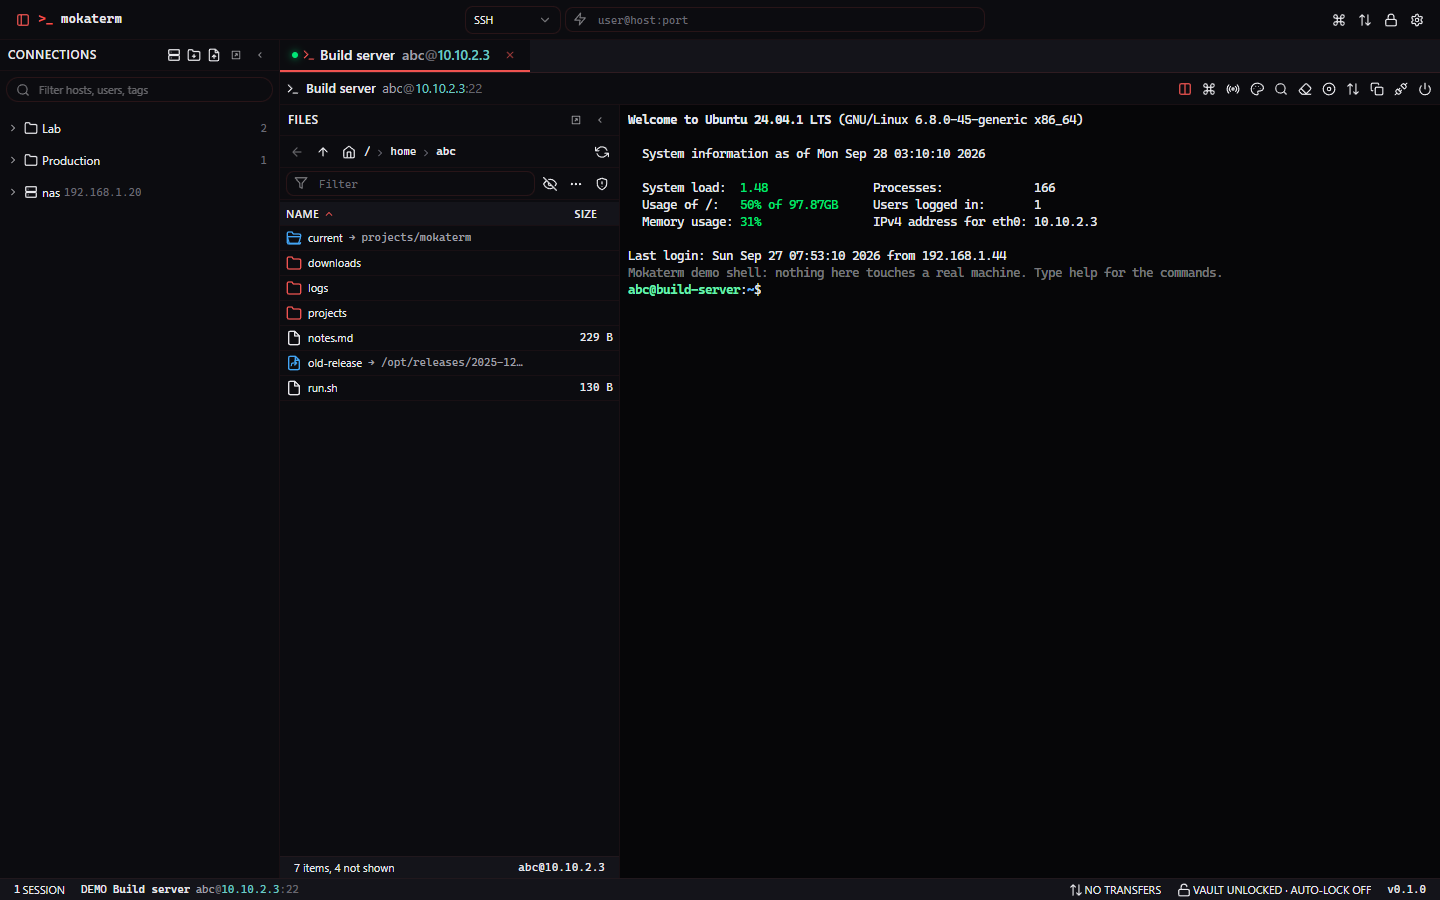
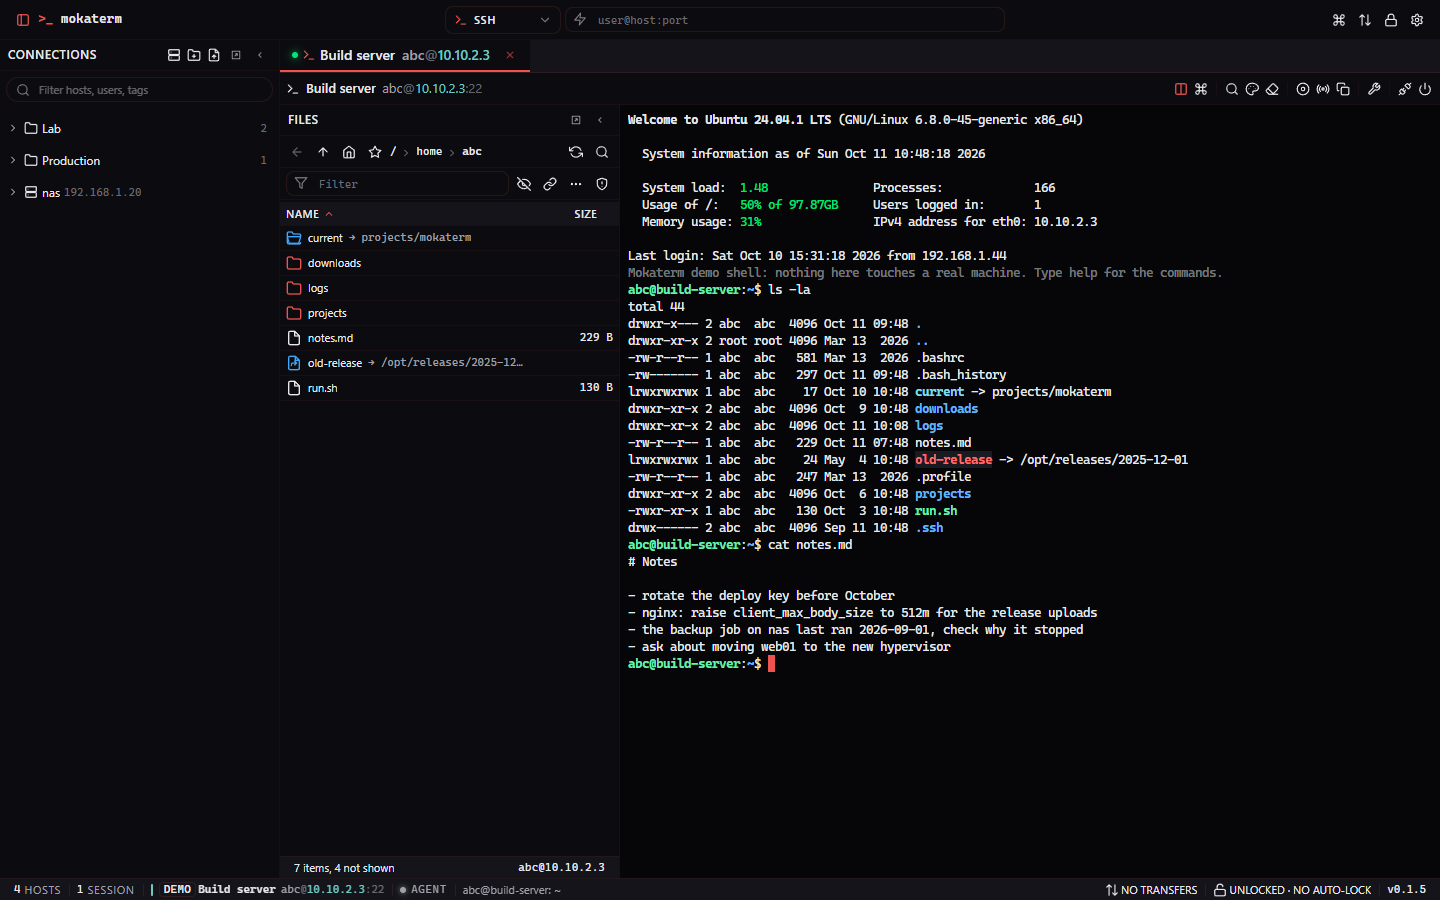
Bump to 0.1.5
Refresh the README and its screenshots for the new tools, and add what's new to the release notes.

diff --git a/README.md b/README.md
@@ -2,9 +2,9 @@
 
 [![CI](https://github.com/jacobwi/Mokaterm/actions/workflows/ci.yml/badge.svg)](https://github.com/jacobwi/Mokaterm/actions/workflows/ci.yml)
 
-A modular SSH, SFTP, FTP, VNC, RDP, telnet, serial and MQTT client, written in Blazor on .NET 10.
-One shared UI runs on two hosts: a MAUI desktop app for Windows, and a Blazor Server web app where
-the server makes the connections instead of the browser.
+A modular SSH, SFTP, FTP, VNC, RDP, telnet, serial and MQTT client, written in Blazor on .NET 10, with a Linux
+system manager and a Docker manager built into every SSH session. One shared UI runs on two hosts: a MAUI desktop app
+for Windows, and a Blazor Server web app where the server makes the connections instead of the browser.
 
 ![Terminal session with the remote file browser](docs/images/terminal.png)
 
@@ -12,7 +12,7 @@ the server makes the connections instead of the browser.
 
 | Protocol | Terminal | Files | Notes |
 |---|---|---|---|
-| SSH | yes | SFTP | Port forwarding, jump hosts, SSH agent, sudo file operations, HTTP and SOCKS proxies |
+| SSH | yes | SFTP | Port forwarding, jump hosts, agent and X11 forwarding, FIDO2 security keys, sudo file operations, HTTP and SOCKS proxies |
 | SFTP | | yes | The file browser half of an SSH login |
 | FTP / FTPS | | yes | Explicit and implicit TLS, the same proxy kinds as SSH |
 | VNC | | | The RFB handshake and authentication run in .NET; the page only draws |
@@ -20,15 +20,53 @@ the server makes the connections instead of the browser.
 | Telnet | yes | | RFC 1143 option negotiation, written here rather than taken from a package |
 | Serial | yes | | Line settings and control pins over `System.IO.Ports`. Desktop only |
 | MQTT | | | Topic tree, payload viewer and publishing against a broker |
+| Local shell | yes | | PowerShell, cmd, Git Bash and WSL over the Windows pseudo console. Desktop only |
+| Docker / Kubernetes | yes | | `docker exec` and `kubectl exec` with a container or pod picker. Desktop only |
 
-Serial is not offered on the web host on purpose: it would hand the server's own ports to whoever
-opens the page.
+Serial, the local shell and the container shells are not offered on the web host on purpose: they would hand the
+server's own ports and programs to whoever opens the page.
 
-## Screenshots
+## Tools in an SSH session
 
-Tabs split across two panes, each with its own file browser:
+**System** is a Linux manager in the spirit of Cockpit. It finds out what the server runs (distribution, init system,
+package manager, firewall) and uses the right commands for it: services, packages, cron, time zone, hostname, network
+interfaces, users, disks, processes, logs and the firewall. Every change shows the exact commands before it runs and goes
+through sudo with the password on stdin.
+
+![The system view on the services page](docs/images/system.png)
+
+**Docker** manages the engine on the server over the same connection, with nothing to install there: containers with
+logs, inspect, stats and a shell, Compose projects, images, volumes and networks. It tells `docker compose` from
+`docker-compose`, finds compose files and their `.env` files, and shows secrets masked until you reveal them.
+
+![Containers grouped by Compose project, with a container's logs](docs/images/docker.png)
+
+A Compose project in one view, with every service's logs merged:
+
+![A Compose project with its merged logs](docs/images/docker-compose.png)
+
+On the desktop each tool can open in a window of its own, next to the terminal it belongs to.
+
+## Files
+
+- Transfers are checked against a SHA-256 the server computes, and a broken one picks up where it stopped.
+- Search a folder tree by name, size and date, or compare a remote folder with a local one.
+- Edit a remote file with syntax highlighting, and see a diff before saving over a copy that changed meanwhile.
+- Copy, cut and paste on the server, compress and extract archives, keep bookmarks per login, and let the browser
+  follow the terminal's working directory.
+
+## Terminal and sessions
+
+- Up to four panes, in any split you like.
+- Triggers color what matches a pattern and can raise a notice.
+- Session logs as plain text, raw bytes or timed recordings that play back in the app, or in asciinema.
+- Type into several sessions at once, or run one command on many logins and collect the output per host.
+
+Two sessions side by side, each with its own file browser:
 
 ![Two sessions side by side](docs/images/split-panes.png)
+
+## More screenshots
 
 The MQTT explorer, with a topic selected and its payload below:
 
@@ -38,7 +76,7 @@ A VNC session:
 
 ![VNC session](docs/images/vnc.png)
 
-Settings, including a page for every protocol module:
+Settings, where the search finds a single setting and not only its page:
 
 ![Settings](docs/images/settings.png)
 
@@ -76,9 +114,9 @@ dotnet build src/Hosts/Mokaterm.Maui -f net10.0-windows10.0.19041.0
 powershell -NoProfile -ExecutionPolicy Bypass -File build/package-windows.ps1
 ```
 
-`samples/Mokaterm.DevHost` runs the real shell against demo SSH, telnet, VNC and MQTT servers with an
-auto-unlocked throwaway vault, which is where the screenshots above come from. It refuses to start
-outside Development.
+`samples/Mokaterm.DevHost` runs the real shell against demo SSH, telnet, VNC and MQTT servers, a demo Docker engine and
+a canned Ubuntu machine for the system view, with an auto-unlocked throwaway vault. The screenshots above come from it.
+It refuses to start outside Development.
 
 ## How it is put together
 
@@ -89,6 +127,7 @@ and nothing else: no UI, no third-party packages.
 Mokaterm.Abstractions   contracts
 Mokaterm.Core           vault and crypto, stores, connections, credentials, settings, themes
 Mokaterm.Sessions       protocol registry, session manager, terminal pump, transfer queue
+Mokaterm.Generators     source generator that indexes every settings row for the settings search
 UI/*                    shell, terminal view, file browser, settings pages, shared components
 Modules/*               one project per protocol
 Hosts/*                 MAUI desktop, Blazor Server web
@@ -105,11 +144,14 @@ gets the built-in file browser, and anything else brings its own view.
   with AES-GCM. Changing the master password re-wraps the data key alone.
 - Every vault document is AES-GCM encrypted with associated data binding the vault id and the document
   name. Passwords, keys and passphrases are encrypted again per field.
-- Hostnames and usernames never reach a plain file, and `settings.json` holds no secrets.
+- Hostnames and usernames never reach a plain file, and `settings.json` holds no secrets. Bookmarks and the quick
+  connect history live in the vault for the same reason.
 - Unlock attempts are throttled, the vault auto-locks when idle, copied secrets are cleared from the
   clipboard, and decrypted material sits in pinned memory that is wiped.
 - SSH host keys and TLS certificates go through one trust check with an Ask, Accept new or Strict policy.
 - On the desktop, "unlock with this device" stores the data key under DPAPI for the current Windows user.
+- Agent and X11 forwarding are off until you turn them on for a login, since anyone with root on that server can use
+  a forwarded agent while you are connected.
 
 The web host gives shell access to every saved host, so run it over HTTPS and preferably behind an
 authenticating reverse proxy.
@@ -117,8 +159,10 @@ authenticating reverse proxy.
 ## Status
 
 Early. The desktop host is the one that gets used; the web host works but has seen less mileage.
-RDP has never met a real server, and serial has never met real hardware: both ship because the rest of
-the app does not wait on them, not because they are finished.
+Some parts have only met test doubles so far: RDP has never met a real server, serial has never met real hardware,
+and the Docker manager, the system view, agent and X11 forwarding and security keys are covered by tests and demo
+servers but not yet by real ones. They ship because the rest of the app does not wait on them, not because they are
+finished.
 
 ## Third-party
 

diff --git a/.github/release-body.md b/.github/release-body.md
@@ -1,3 +1,42 @@
+## What's new in 0.1.5
+
+**Tools in every SSH session**
+
+- **System**: a Linux manager for services, packages, cron, time zone, hostname, network interfaces, users, disks,
+  processes, logs and the firewall. It detects the distribution and uses the right commands, shows every command before
+  running it, and goes through sudo with the password on stdin.
+- **Docker**: containers with logs, inspect, stats, env, mounts and a shell, Compose projects with per-service actions
+  and merged logs, images, volumes and networks. Works with `docker compose` and `docker-compose`, finds compose and
+  `.env` files, and runs commands inside a container.
+- On the desktop each tool can open in its own window.
+
+**SSH**
+
+- Agent forwarding and X11 forwarding, per login and off by default.
+- FIDO2 security keys (`ecdsa-sk`, `ed25519-sk`): from an agent, from key files, or made new from the keychain.
+
+**Files**
+
+- Transfers are verified with SHA-256 and resume where they stopped.
+- Find files on the server, compare a remote folder with a local one, and copy, cut and paste on the server.
+- Compress and extract archives, bookmark folders, and let the browser follow the terminal's folder.
+- The editor highlights syntax and shows a diff before saving.
+- Dropped files can upload without asking.
+
+**Terminal and workspace**
+
+- A local shell tab: PowerShell, cmd, Git Bash or WSL. Docker and Kubernetes shells too.
+- Up to four panes, triggers that color matches or raise a notice, and timed session recordings that play back.
+- Run one command on many logins and see the output per host.
+- Right-click can paste, or copy a selection and paste otherwise.
+- Quick connect suggests saved logins and recent targets as you type.
+- The session toolbar is grouped, with a Tools menu, and can be set to flat or compact.
+
+**Settings**
+
+- The search finds single settings, not only pages.
+- Settings can be exported and imported.
+
 ## Install
 
 Download **Moka.Mokaterm-win-Setup.exe** and run it. It installs for the current user, needs no
